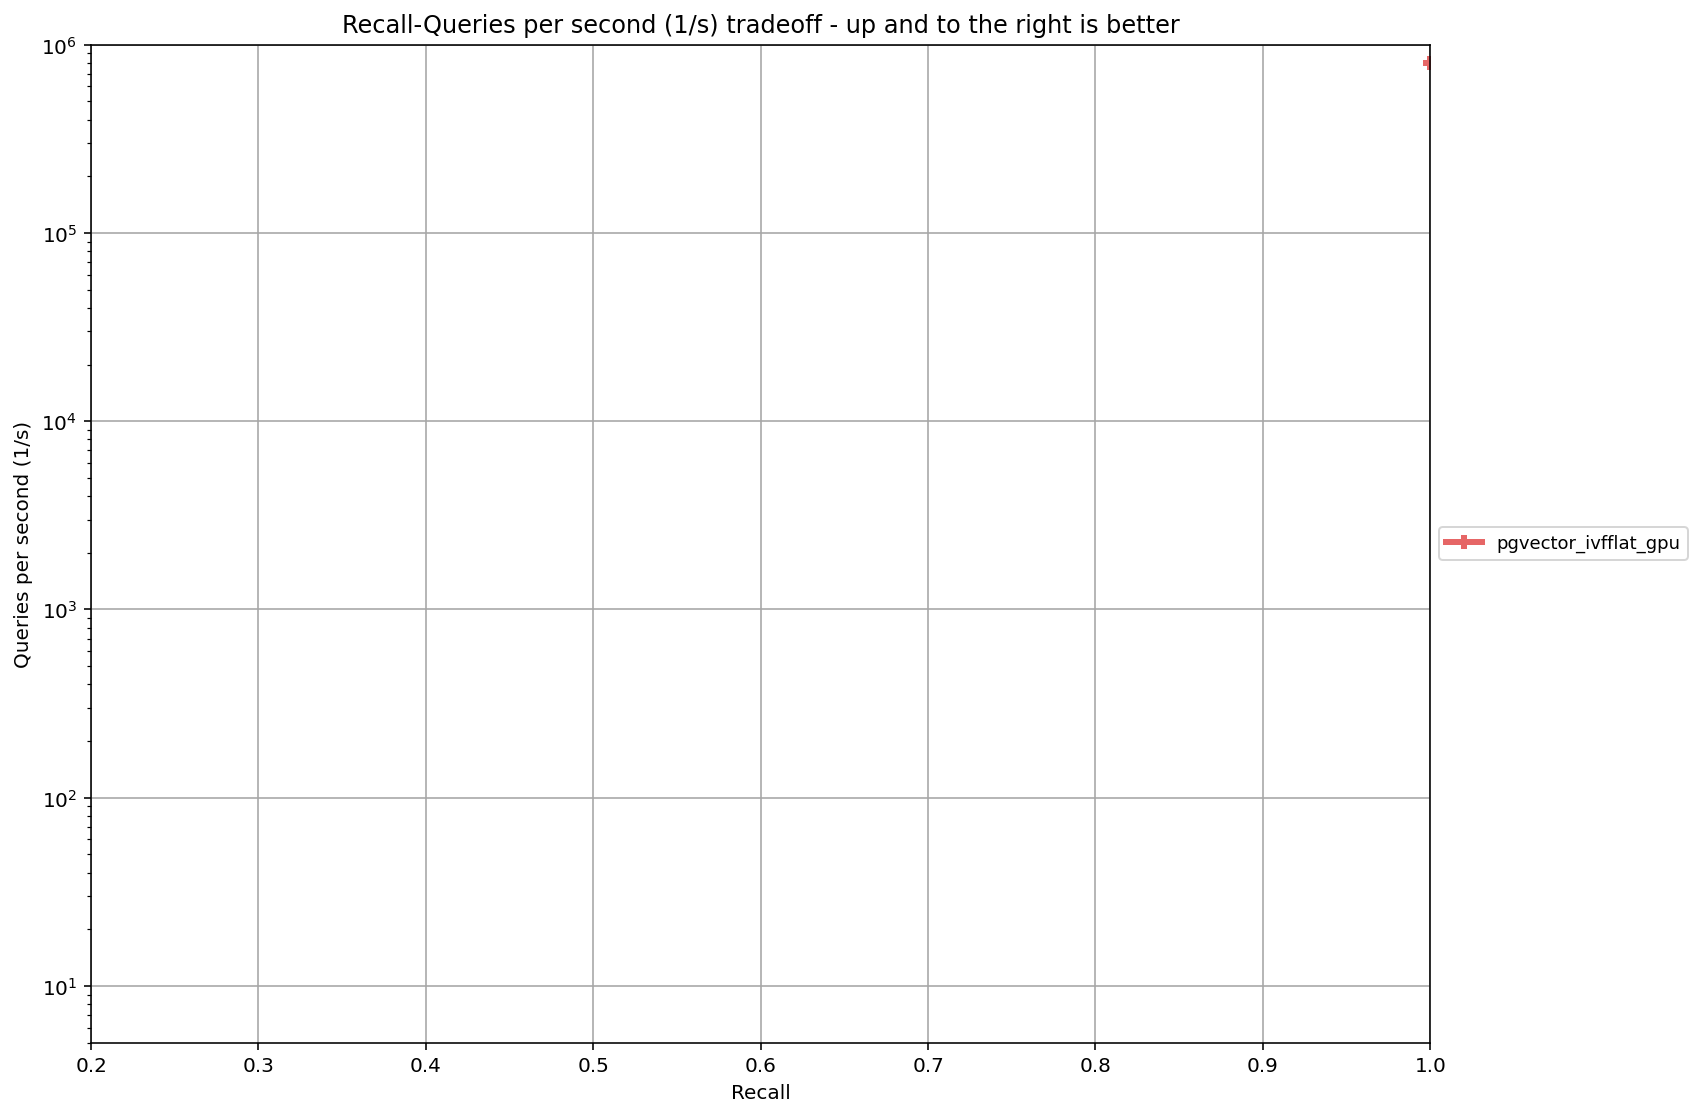
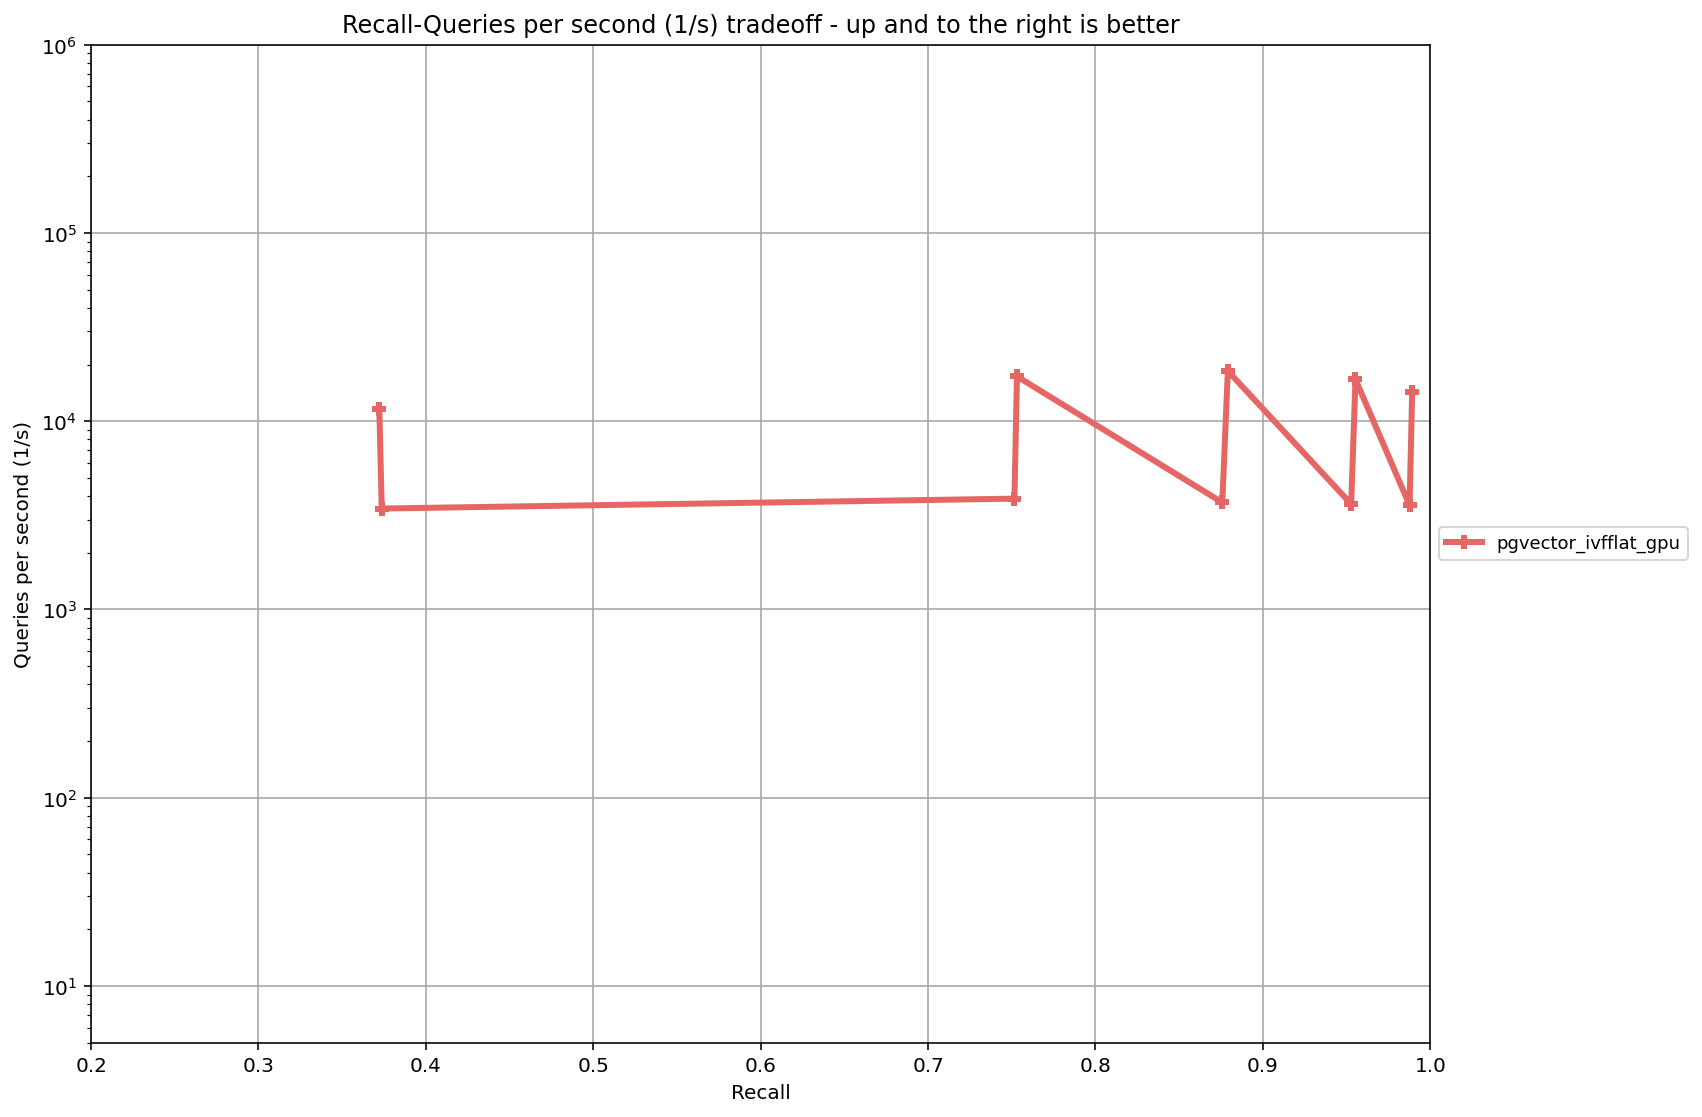
pgvector-gpu环境配置

Changed region(s): [[0.218, 0.3348, 0.6539, 0.4566], [0.6851, 0.3348, 0.8408, 0.4566], [0.6539, 0.3957, 0.6851, 0.4261]]

diff --git a/ann_benchmarks/algorithms/pgvector_parallel/module.py b/ann_benchmarks/algorithms/pgvector_parallel/module.py
@@ -30,6 +30,7 @@ import time
 
 import pgvector_gpu.psycopg
 import psycopg
+import psycopg.errors
 import numpy as np
 from pgvector_gpu import VectorBatch
 
@@ -217,23 +218,24 @@ class PGVectorSingle(BaseANN):
 
         if metric == "angular":
             self._query = "SELECT id FROM items ORDER BY embedding <=> %s LIMIT %s"
+            self._parallel_query = """
+                SELECT * FROM batch_vector_search_cos(
+                    %s::oid,                    -- index OID
+                    %s,                         -- query vectors (psycopg 会自动将 2D numpy 数组转换为 vector_batch)
+                    %s::integer                 -- k (limit)
+                );
+            """
         elif metric == "euclidean":
             self._query = "SELECT id FROM items ORDER BY embedding <-> %s LIMIT %s"
+            self._parallel_query = """
+                SELECT * FROM batch_vector_search_l2(
+                    %s::oid,                    -- index OID
+                    %s,                         -- query vectors (psycopg 会自动将 2D numpy 数组转换为 vector_batch)
+                    %s::integer                 -- k (limit)
+                );
+            """
         else:
             raise RuntimeError(f"unknown metric {metric}")
-        
-        # [修改] 定义批量查询 SQL，支持直接传递 2D numpy 数组（会自动转换为 vector_batch）
-        # batch_vector_search 只支持 vector_batch 类型，psycopg 会自动将 2D numpy 数组转换为 vector_batch
-        # 注意：不要使用 CAST，让 psycopg 自动处理类型转换
-        self._parallel_query = """
-            SELECT * FROM batch_vector_search(
-                %s::oid,                    -- index OID
-                %s,                         -- query vectors (psycopg 会自动将 2D numpy 数组转换为 vector_batch)
-                %s::integer                 -- k (limit)
-            );
-        """
-
-
 
     def get_metric_properties(self) -> Dict[str, str]:
         """
@@ -266,7 +268,17 @@ class PGVectorSingle(BaseANN):
                 print("vector extension already exists")
             else:
                 print("vector extension does not exist, creating")
-                cur.execute("CREATE EXTENSION vector")
+                # Use IF NOT EXISTS to avoid errors if extension was created concurrently
+                try:
+                    cur.execute("CREATE EXTENSION IF NOT EXISTS vector")
+                except psycopg.errors.DuplicateObject:
+                    # Extension was created by another process, ignore
+                    pass
+                except Exception as e:
+                    # If CREATE EXTENSION fails, try without IF NOT EXISTS as fallback
+                    print(f"Warning: CREATE EXTENSION IF NOT EXISTS failed: {e}")
+                    print("Trying CREATE EXTENSION without IF NOT EXISTS...")
+                    cur.execute("CREATE EXTENSION vector")
 
     def fit(self, dataset):
         if dataset.shape[0] > 1000000:

diff --git a/ann_benchmarks/datasets.py b/ann_benchmarks/datasets.py
@@ -265,7 +265,7 @@ def sift(out_fn: str) -> None:
     import tarfile
 
     url = "ftp://ftp.irisa.fr/local/texmex/corpus/sift.tar.gz"
-    fn = os.path.join("data", "sift.tar.tz")
+    fn = os.path.join("data", "sift.tar.gz")
     download(url, fn)
     with tarfile.open(fn, "r:gz") as t:
         train = _get_irisa_matrix(t, "sift/sift_base.fvecs")
